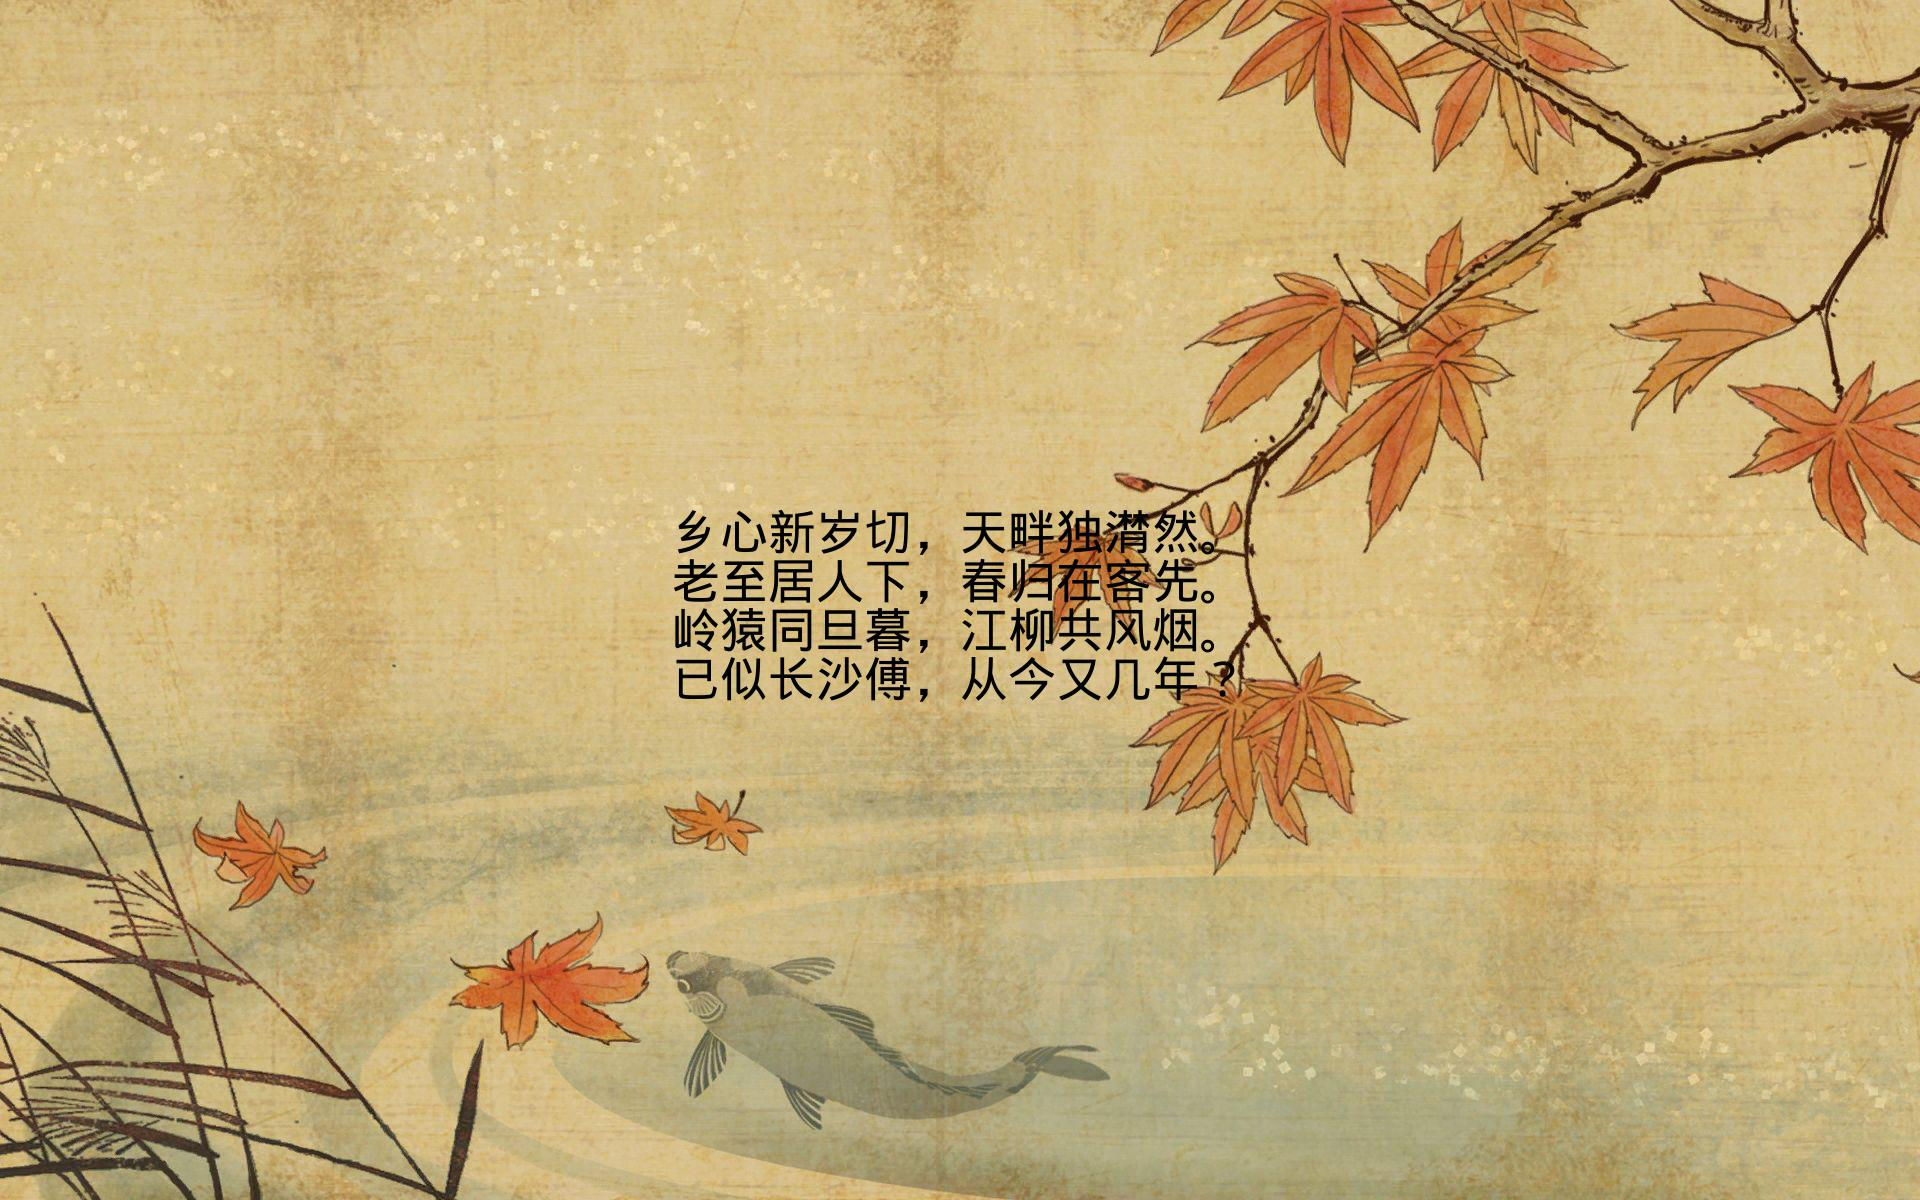
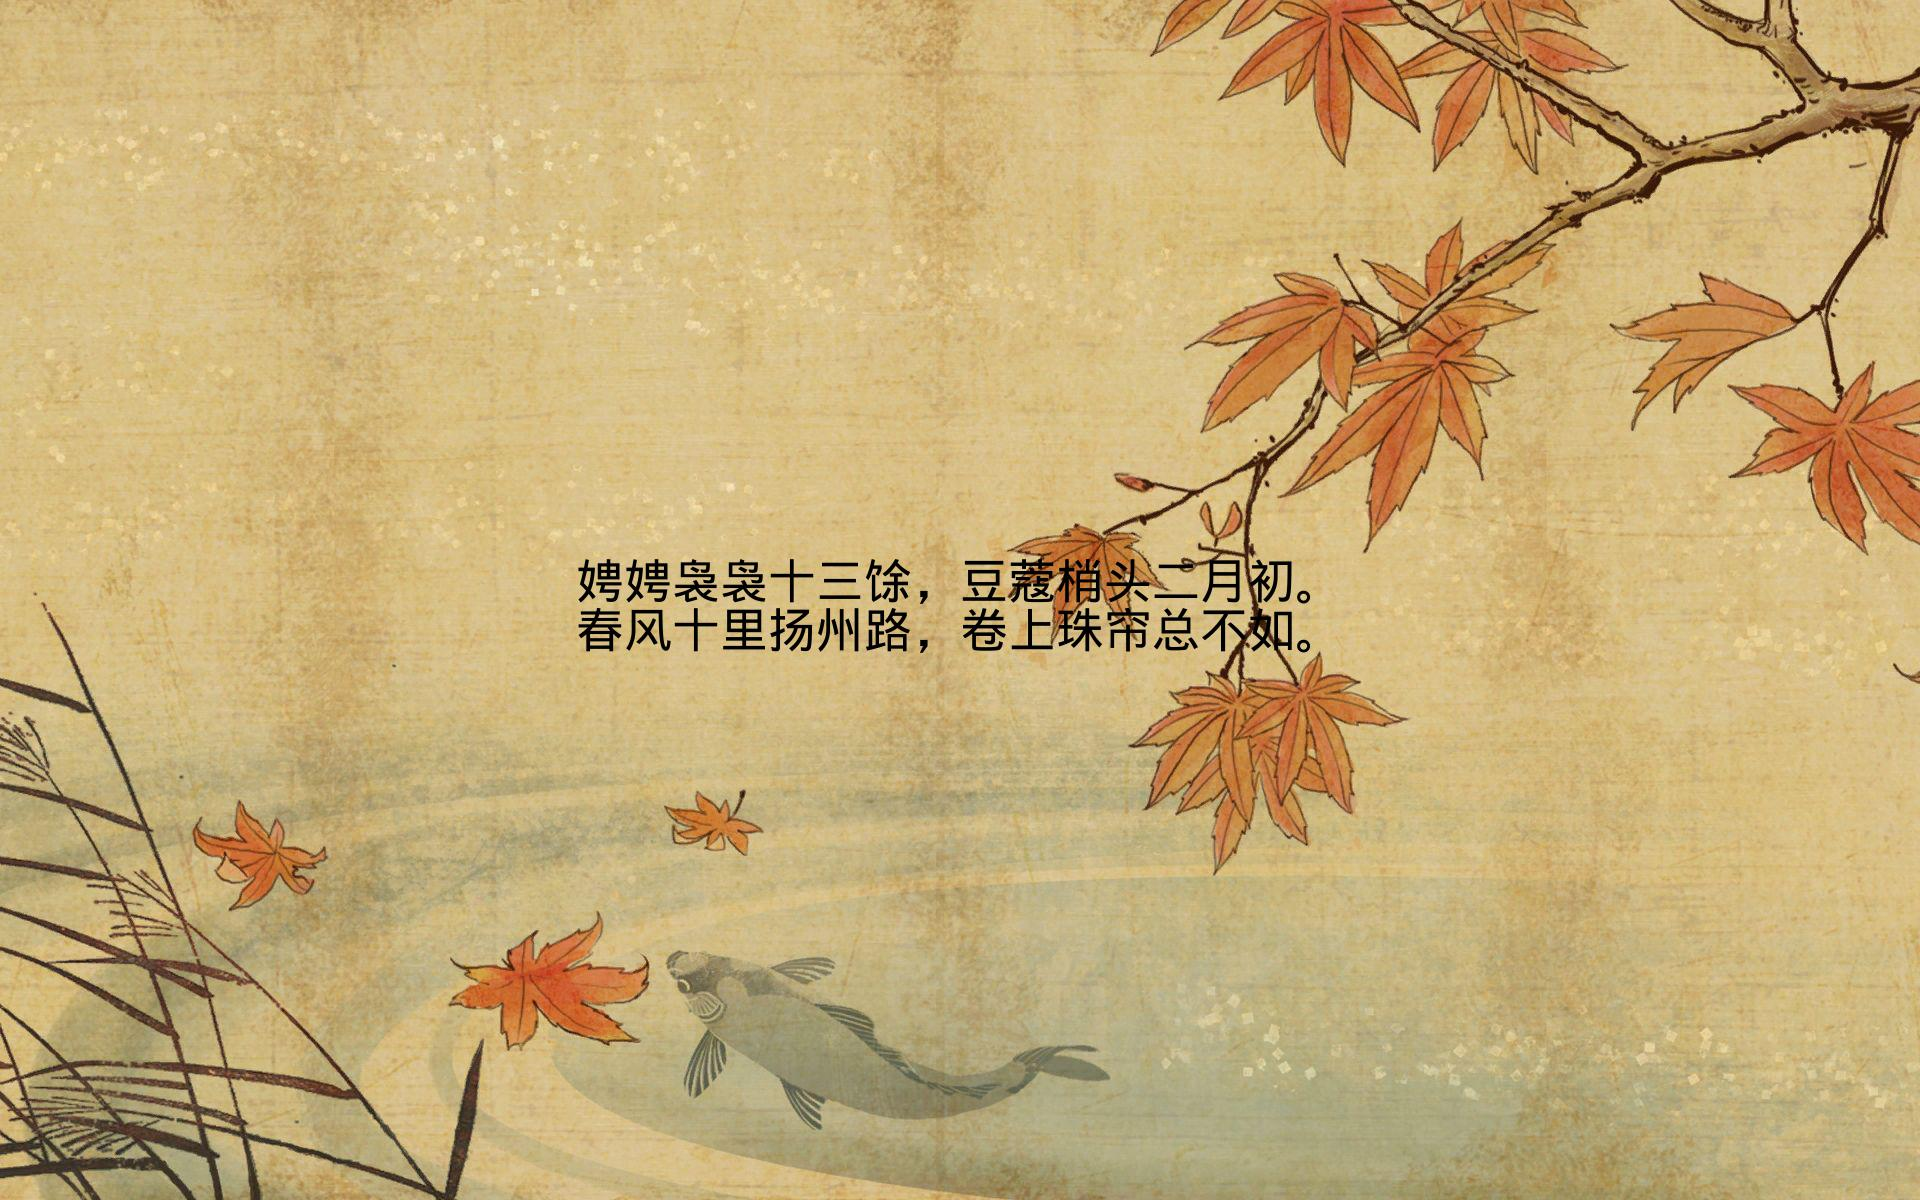
Add title

Changed region(s): [[0.2812, 0.4008, 0.6875, 0.5858]]

diff --git a/300tang/main.py b/300tang/main.py
@@ -2,6 +2,8 @@ from PIL import Image, ImageFont, ImageDraw
 import json
 import random
 from time import time, sleep
+import os
+
 
 while True:
     #random poem id
@@ -20,16 +22,29 @@ while True:
     if (find_poem(n) != None):
         title_text=find_poem(n)
 
+
+    def find_title(n):
+        for keyval in data:
+            if n ==keyval['id']:
+                return keyval['title']    
+    if (find_title(n) != None):
+        title=find_title(n)            
+
     base = Image.open("base.jpeg")
 
     image_editable = ImageDraw.Draw(base)
 
-    ttf=ImageFont.truetype('/usr/share/fonts/truetype/wqy/wqy-microhei.ttc', 48)
+    ttf=ImageFont.truetype('/usr/share/fonts/truetype/wqy/wqy-microhei.ttc', 36)
 
     w,h = image_editable.textsize(title_text, font=ttf)
 
-    image_editable.text(((1920-w)/2,(1200-h)/2), title_text, (0, 0, 0,128),font=ttf)
+    image_editable.text(((1920-w)/2,(1200-h)/2), title_text, (49, 27, 8,64),font=ttf)
+    
+    w2,h2=image_editable.textsize(title, font=ttf)
+
+    image_editable.text(((1920-w2)/2,((1200-h)/2)-h), title, (49, 27, 8,64),font=ttf)
+
 
     base.save('output.jpeg')
-
+    os.system('/usr/bin/gsettings set org.gnome.desktop.background picture-uri ~/Desktop/300Tang/300tang/output.jpeg')
     sleep(60 - time() % 60)
